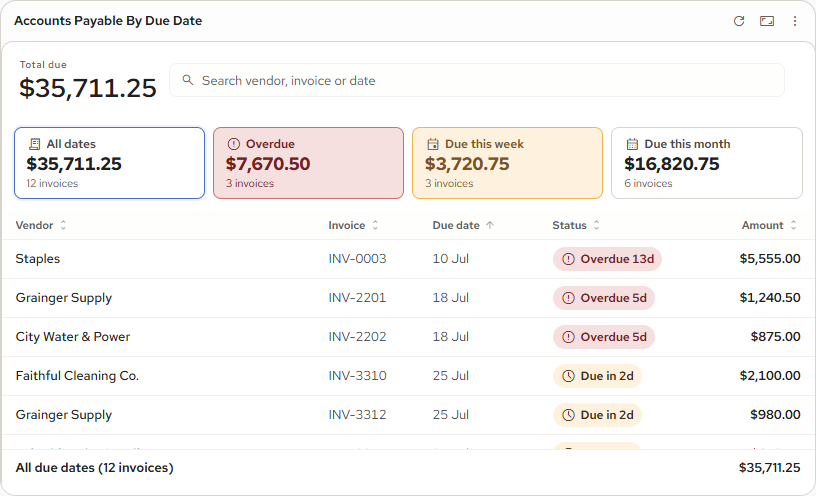
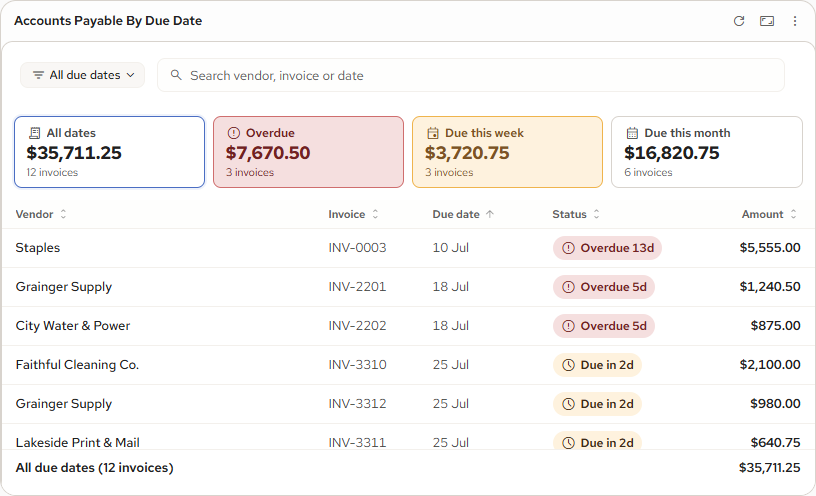
Accounts Payable By Due Date: due-date chip back in the header, header total removed (owner, 9 Oct)
The old due-date filter chip sits left of Jo's inline search where the Total due
figure was; the All dates tile carries the total. Chip and tiles drive the same
filter. Driver 67 assertions; suite 3485 green; Explore and Detail shots retaken.

diff --git a/_tools/w16-payables.driver.js b/_tools/w16-payables.driver.js
@@ -47,11 +47,13 @@ const wide = rows.filter(function (w) { return w.size === "wide"; })[0], xw = ro
 
 /* ---------- 4. her controls are intact ---------------------------------- */
 const e = EX.contentHTML(wide), d = EX.contentHTML(xw);
-/* Jo phase-2 d7f33b0 (owner, 9 Oct: her widget one to one, except the Glance and the invoice pop-up): the header is
-   the total with a "Total due" eyebrow and an inline search; the due-date chip gave way to four filter tiles. */
+/* Jo phase-2 d7f33b0 (owner, 9 Oct: her widget one to one, except the Glance and the invoice pop-up), then the owner's
+   header ruling: no total in the header; the old due-date chip sits where it was, beside her inline search, and her four
+   filter tiles under it drive the same filter. */
 ["All dates", "Overdue", "Due this week", "Due this month"].forEach(function (lbl) { A.contains(e, '<span class="ap-tile-lbl">' + lbl + "</span>", "Explore: filter tile " + lbl); A.contains(d, '<span class="ap-tile-lbl">' + lbl + "</span>", "Detail: filter tile " + lbl); });
-A.contains(e, 'data-action="ap-set-due" data-due="week"', "the tiles reuse her ap-set-due handler"); A.absent(e, 'data-action="ap-due"', "no due-date chip in the header any more (her phase-2 header)");
-A.contains(e, '<span class="kpi-eyebrow">Total due</span>', "Explore: Total due eyebrow over the total"); A.contains(e, 'placeholder="Search vendor, invoice or date"', "Explore: inline search in the header");
+A.contains(e, 'data-action="ap-set-due" data-due="week"', "the tiles reuse her ap-set-due handler"); A.contains(e, 'data-action="ap-due"', "Explore: the due-date chip is back in the header (owner, 9 Oct)"); A.contains(d, 'data-action="ap-due"', "Detail: due-date chip");
+A.absent(e, "kpi-eyebrow", "no Total due in the header (owner, 9 Oct: the All dates tile carries it)"); A.absent(e, "ap-hd-kpi", "no header total cell"); A.contains(e, 'placeholder="Search vendor, invoice or date"', "Explore: inline search in the header");
+wide.apDue = "week"; const ew = EX.contentHTML(wide); A.contains(ew, '<span class="fc-label">Due this week</span>', "picking the Due this week tile relabels the chip: one filter, two controls"); A.contains(ew, 'data-due="week" data-id="' + wide.id + '" aria-pressed="true"', "and the tile shows selected"); wide.apDue = "total";
 A.contains(e, 'class="ap-sbadge ap-sbadge-over"', "Explore: overdue rows carry her negative status badge"); A.contains(e, "ap-sbadge-warn", "and due-within-a-month rows the attention badge");
 A.contains(e, '<span class="ap-c-inv">', "invoice number is plain text (no code-copy helper in this shell)"); A.absent(e, "codecopy", "no codecopy markup");
 A.contains(d, '<div class="dep-col-h">Top vendors owed</div>', "Detail: the right column is Top vendors owed"); A.absent(d, "ap-vendor-drill", "vendor rows do not drill (owner: our pop-up only, not hers)"); A.absent(d, "ap-sum-click", "no drill styling on vendor rows");

diff --git a/index.html b/index.html
@@ -936,7 +936,6 @@
 /* ---- header, filter tiles, status badge (Jo phase-2) ---- */
 /* AP header: KPI left, small search inline right. */
 .ap-hd-row{display:flex;align-items:center;gap:var(--gap-medium);padding:var(--padding-xxxtight) var(--padding-xxxtight) 0;}
-.ap-hd-kpi{display:flex;align-items:baseline;gap:var(--gap-tight);min-width:0;}
 .ap-hd-search{margin-left:auto;}
 /* AP filter tiles: icon + tone colour + readable text. */
 .ap-tiles{display:flex;gap:var(--gap-tight);flex-wrap:wrap;padding:var(--padding-tight) var(--padding-medium) var(--padding-medium);}
@@ -972,9 +971,6 @@
 /* Amount column: header right-aligned over the right-aligned amounts. */
 .ap-c-amt{text-align:right;}
 .wt-head .ap-c-amt .wt-sort{justify-content:flex-end;width:100%;}
-/* KPI eyebrow over the total, as Jo's shell draws it (scoped here; the shell has no such rule) */
-.ap-hd-kpi .kpi-eyegrp{display:inline-flex;flex-direction:column;align-items:flex-start;gap:var(--gap-xxxtight);min-width:0;}
-.ap-hd-kpi .kpi-eyebrow{display:block;font-size:var(--type-size-10);font-weight:500;line-height:1.4;letter-spacing:0.6px;color:var(--txt-subtle);}
 
   .mi .mi-sub{margin-left:auto;font-size:11px;color:var(--txt-subtle);font-variant-numeric:tabular-nums;}
   /* Consistent table header styling across every widget */
@@ -12713,15 +12709,10 @@ function apBadge(w){var od=apOverdueTotal(w);if(od>0){var n=apOverdueCount(w);re
      payable + overdue badge (LEFT), one quiet context line under it stating
      count, cash-needed-within-7-days, and "as of". */
   function apHeaderBlock(w,mode){
-    var kpi;
-    if(mode==="loading"){
-      kpi='<span class="sk" style="width:150px;height:26px;border-radius:6px"></span>';
-    }else{
-      kpi='<span class="kpi-eyegrp"><span class="kpi-eyebrow">Total due</span><span class="metric-value">'+apMoney(apTotalDue(w))+'</span></span>';
-    }
-    /* KPI on the left; a small search inline on the right (type a vendor, invoice or date). */
+    /* Due-date chip on the left (the same filter the tiles below drive; the All dates tile carries the total),
+       a small search inline on the right (type a vendor, invoice or date). */
     var search='<div class="dep-search hd-search ap-hd-search"><span class="material-symbols-rounded" aria-hidden="true">search</span><input class="dep-q" placeholder="Search vendor, invoice or date" aria-label="Search invoices by vendor, invoice number or date"></div>';
-    return '<div class="dep-hd"><div class="ap-hd-row"><div class="ap-hd-kpi">'+kpi+'</div>'+search+'</div></div>';}
+    return '<div class="dep-hd"><div class="ap-hd-row">'+apDueChip(w)+search+'</div></div>';}
 
   /* ---- the hero: dense due-date table, grouped by aging band --------- */
   /* One status badge used in the table AND the invoice detail: overdue = negative,

diff --git a/docs/decisions/W16.md b/docs/decisions/W16.md
@@ -19,3 +19,4 @@ Owner: "copy Jo Phase 2 as it currently works 1 to 1. What should not be treated
 - **Auto-fixed**: her header carried an `ap-hd` class with no rule in either build; dropped.
 - Driver `w16-payables.driver.js` 33 to 63 assertions; suite green. Lint: T5 unchanged, T1 up by the Pathway theme tokens her tiles and badges use (declared in the token CSS). Checked headless at 1920 and 1536.
 - Handover section and shots: V2 shots retaken; the prose is left for after the owner's review.
+- **Header (owner, same day, from the screenshot): "remove the total here place the old filter for time there. the 3 options below do work as time filter but I want old filter to work too."** The Total due figure is gone from the Explore and Detail header (the All dates tile carries it); the old due-date chip sits where it was, left of her search, and it and the tiles drive the one filter, so picking a tile relabels the chip and picking a chip option selects the matching tile. Eyebrow rules removed. Driver 67; suite 3485 green; shots 02 and 03 retaken.
